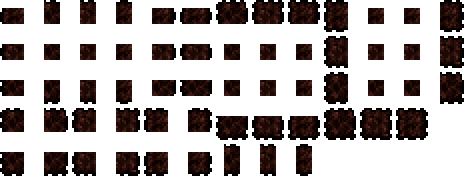
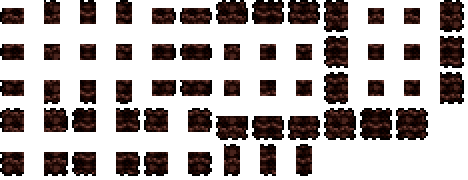
update wall sprites
also fix fossilized blessing

diff --git a/RhyolitePlayer.cs b/RhyolitePlayer.cs
@@ -84,9 +84,9 @@ internal class RhyolitePlayer : ModPlayer
         }
         if (FossilBlessing && !Player.mount.Active && Player.DoublePressedReversedSetBonusActivateKey())
         {
-            if (FossilBlessingActive)
+            if (Player.HasBuff<FossilBlessing>())
             {
-                FossilBlessingActive = false;
+                Player.ClearBuff(ModContent.BuffType<FossilBlessing>());
             }
             else if (!Player.HasBuff<FossilBlessingCooldown>())
             {

diff --git a/Buffs/FossilBlessing.cs b/Buffs/FossilBlessing.cs
@@ -17,10 +17,10 @@ public class FossilBlessing : ModBuff
 		player.statDefense += 20;
 		player.lifeRegen += 20;
 		player.controlJump = false;
-		player.controlDown = false;
+		//player.controlDown = false;
 		player.controlLeft = false;
 		player.controlRight = false;
-		player.controlUp = false;
+		//player.controlUp = false;
 		player.controlUseItem = false;
 		player.controlUseTile = false;
 		player.controlThrow = false;
